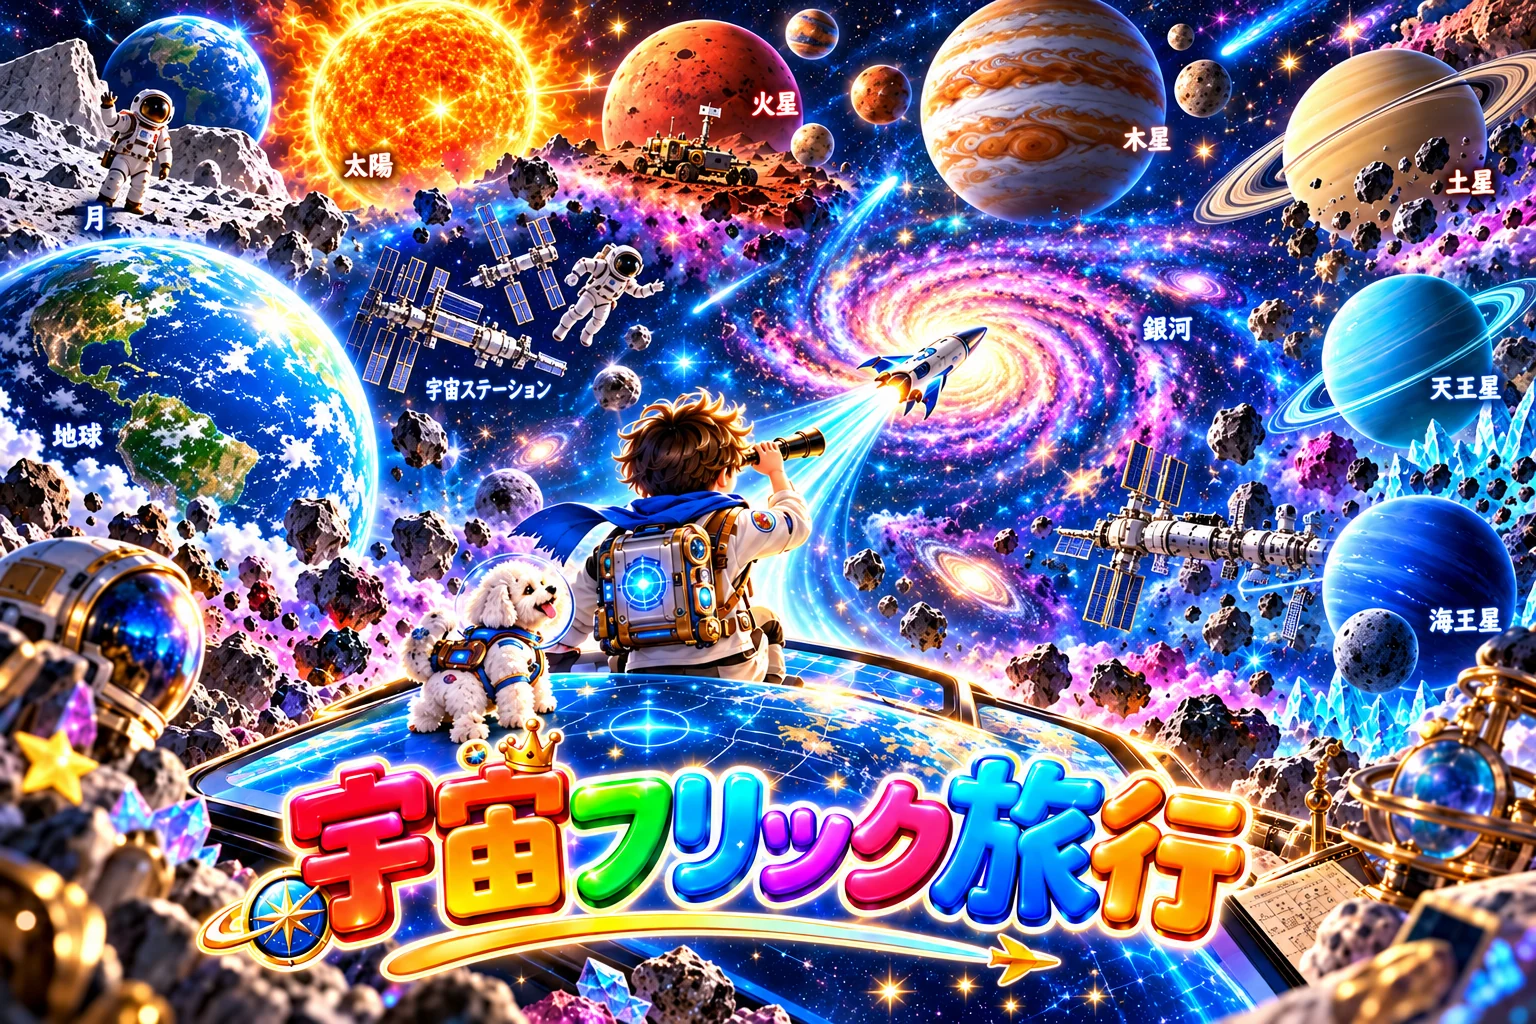
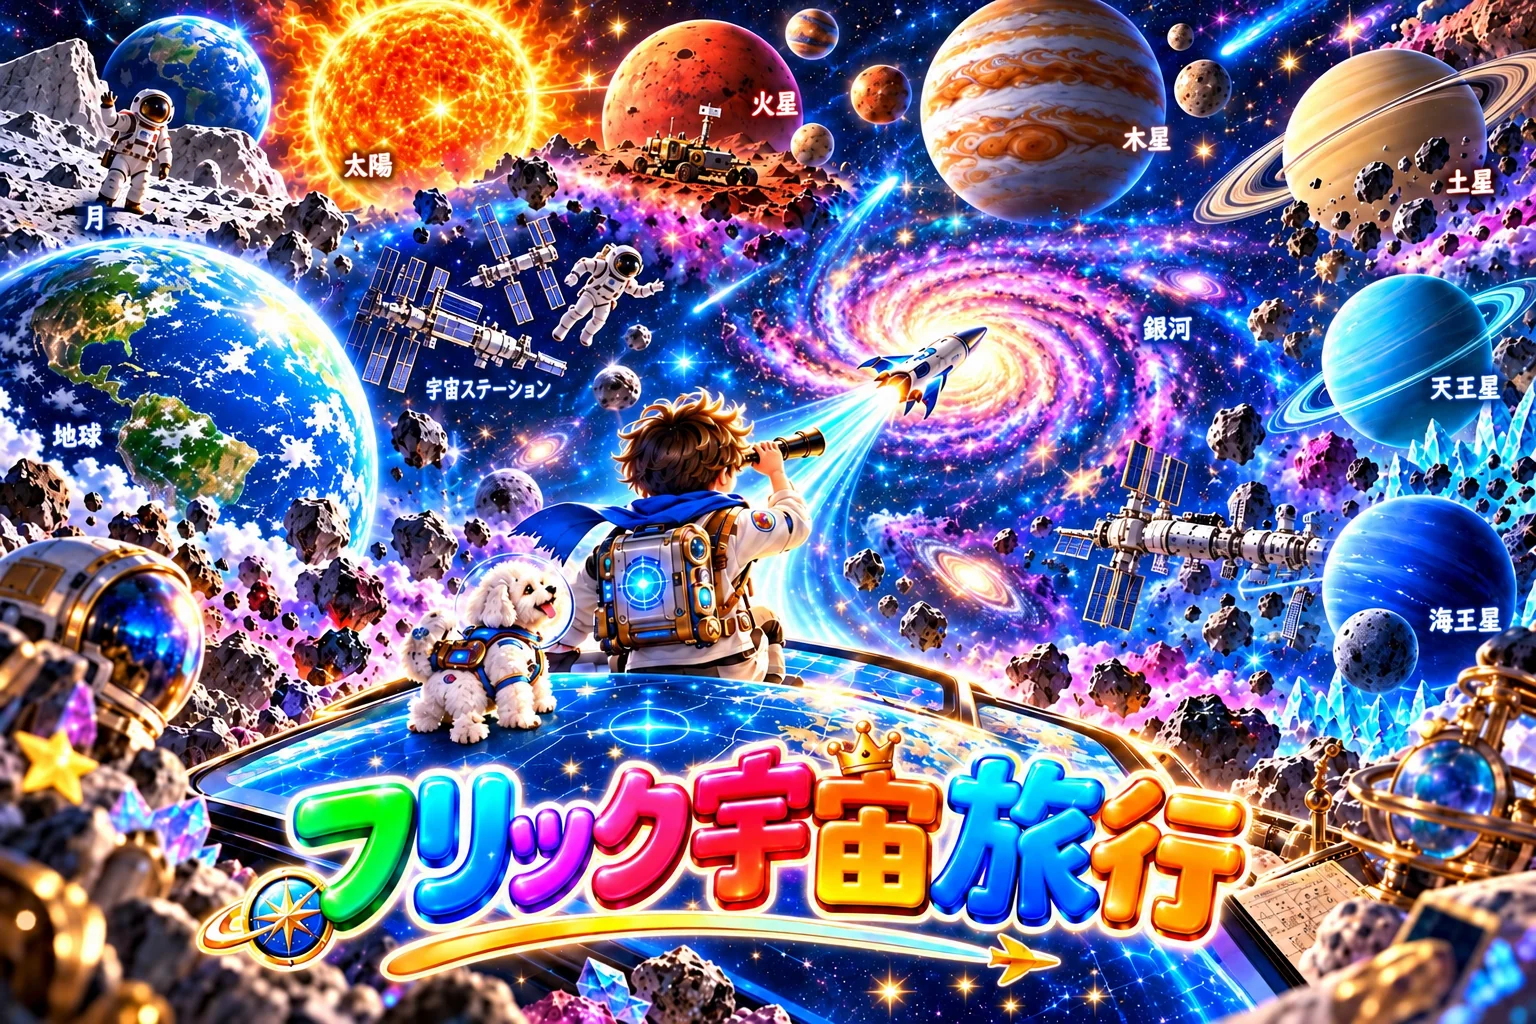
フリック宇宙旅行の トップの 絵と 題名を 入れた
Claude-Session: https://claude.ai/code/session_011SmHRfS48asPXBze6LzYiU

diff --git a/uchu/index.html b/uchu/index.html
@@ -404,11 +404,11 @@ ruby.nm rt{font-size:10px;font-weight:500;color:var(--muted);letter-spacing:.02e
          読みあげソフトには かくして、下の <h1> が 名前を言う -->
     <div class="logo">
       <img class="logo-mark" src="logo-mark2.webp?v=3" alt="" width="144" height="144" aria-hidden="true">
-      <img class="logo-word" src="logo-word.webp?v=2" alt="" width="1053" height="257" aria-hidden="true">
+      <img class="logo-word" src="logo-word.webp?v=3" alt="" width="959" height="193" aria-hidden="true">
       <button class="prof-btn" id="prof-btn" aria-label="あそぶ人を かえる"><span class="nm"></span><span class="tile sm sk-card" id="prof-tile">?</span></button>
     </div>
     <h1 class="sr-only">フリック宇宙旅行</h1>
-    <img class="hero" src="hero.webp" alt="フリック宇宙旅行。太陽系の 惑星と 銀河が うかぶ 絵" width="1536" height="1024">
+    <img class="hero" src="hero.webp?v=3" alt="フリック宇宙旅行。惑星・銀河・宇宙ステーションの 中を 男の子と 犬が 望遠鏡で 見る 絵" width="1536" height="1024">
     <p class="lead" id="lead">世界と日本の名所・地名・首都を、ひらがなでどれだけ速く打てるか。10問のトータルタイムで勝負しながら、旅に出よう。</p>
     <div class="modes" id="modes"></div>
     <div id="kabu-panel"></div><!-- 株式フリック旅行だけ: 集めた会社・称号(kabu/kabu.js) -->

diff --git a/tools/uchu/logo_cut.py b/tools/uchu/logo_cut.py
@@ -1,0 +1,33 @@
+#!/usr/bin/env python3
+"""フリック宇宙旅行: トップの 絵(けいくんの ChatGPT の 絵 2026-09-27)から 題名を 切りぬく → uchu/logo-word.webp
+    python3 tools/uchu/logo_cut.py もとの絵.png uchu/logo-word.webp 見本.png
+- 白い ふちが 「フ」の 左下で とぎれていて tools/logo-sticker-cut.py では「フ」が 落ちた。色で 拾う tools/logo-word-cut.py も 宇宙の 背景の 色が こくて だめ
+- GrabCut(tools/kabu/logo_cut.py と 同じ 方法)。色の こい ところを「たぶん 字」、暗い ところを「背景」に して はじめる。王冠・コンパス・矢印は 入れない
+⚠ GrabCut は 毎回 すこし 結果が ちがう。できた 絵は かならず 目で 見る。大きさを 変えたら build_games.py の uchu の art.word も なおす"""
+import numpy as np, cv2, sys
+from PIL import Image, ImageFilter
+from scipy import ndimage
+img=cv2.imread(sys.argv[1]); H0,W0=img.shape[:2]
+x0,y0,x1,y1=int(.14*W0),int(.705*H0),int(.83*W0),int(.915*H0)
+crop=img[y0:y1,x0:x1].copy(); h,w=crop.shape[:2]
+hsv=cv2.cvtColor(crop,cv2.COLOR_BGR2HSV); s=hsv[...,1]/255.; v=hsv[...,2]/255.
+mask=np.full((h,w),cv2.GC_PR_BGD,np.uint8)
+mask[(s>.55)&(v>.55)]=cv2.GC_PR_FGD
+mask[(v<.35)]=cv2.GC_BGD
+mask[:3,:]=mask[-3:,:]=cv2.GC_BGD; mask[:,:3]=mask[:,-3:]=cv2.GC_BGD
+bgd=np.zeros((1,65));fgd=np.zeros((1,65))
+cv2.grabCut(crop,mask,None,bgd,fgd,8,cv2.GC_INIT_WITH_MASK)
+fg=(mask==cv2.GC_FGD)|(mask==cv2.GC_PR_FGD)
+fg=ndimage.binary_opening(fg,np.ones((3,3)))
+lab,n=ndimage.label(fg); sz=ndimage.sum(fg,lab,range(1,n+1))
+for i,z in enumerate(sz):
+  if z>800:
+    sl=ndimage.find_objects((lab==i+1).astype(int))[0]; print(int(z),sl[1].start,sl[1].stop,sl[0].start,sl[0].stop)
+keep=np.isin(lab,[i+1 for i,z in enumerate(sz) if z>1500])
+holes=ndimage.binary_fill_holes(keep)&~keep; hl,hn=ndimage.label(holes); hs=ndimage.sum(holes,hl,range(1,hn+1))
+keep|=np.isin(hl,[i+1 for i,z in enumerate(hs) if z<400])
+out=Image.fromarray(cv2.cvtColor(crop,cv2.COLOR_BGR2RGB)).convert("RGBA")
+out.putalpha(Image.fromarray((keep*255).astype(np.uint8)).filter(ImageFilter.GaussianBlur(0.8)))
+ys,xs=np.nonzero(keep); out=out.crop((xs.min()-3,ys.min()-3,xs.max()+4,ys.max()+4))
+out.save(sys.argv[2],"WEBP",quality=95,method=6); print(out.size)
+bg=Image.new("RGB",out.size,(255,255,255)); bg.paste(out,(0,0),out); bg.save(sys.argv[3])

diff --git a/tools/build_games.py b/tools/build_games.py
@@ -14,7 +14,7 @@ GAMES = {
                     lead="世界と日本の偉人・歴史の出来事を、ひらがなでどれだけ速く打てるか。10問のトータルタイムで勝負しながら、時間の旅に出よう。",
                     how="表示されたひらがなを、そのまま打ち写してね。レベル1がいちばんかんたん。どのレベルも いつも同じ10問なので、タイムをくらべられるよ。偉人は 名前を打つと、結果で その人のプロフィールと 名言が読めるよ。出来事は 年と解説が出て、年表に📍が立つよ。",
                     rule="ルール：予測変換は使わずに、自分の指で打ち切ろう。速くなるほど、歴史の流れも自然と覚えられるよ。"),
-    "uchu": dict(name="フリック宇宙旅行", modes=["usolar", "usky", "ucos"], kinds={"space"}, color="#2b3a8f", hero=True, logo=True, art=dict(word=(1053, 257), hero=(1536, 1024), alt="フリック宇宙旅行。太陽系の 惑星と 銀河が うかぶ 絵", iconv=3),
+    "uchu": dict(name="フリック宇宙旅行", modes=["usolar", "usky", "ucos"], kinds={"space"}, color="#2b3a8f", hero=True, logo=True, art=dict(word=(959, 193), hero=(1536, 1024), alt="フリック宇宙旅行。惑星・銀河・宇宙ステーションの 中を 男の子と 犬が 望遠鏡で 見る 絵", iconv=3, wordv=3),
                  lead="太陽系・星と星座・宇宙のことばを、ひらがなでどれだけ速く打てるか。10問のトータルタイムで勝負しながら、宇宙の旅に出よう。",
                  how="表示されたひらがなを、そのまま打ち写してね。レベル1がいちばんかんたん。どのレベルも いつも同じ10問なので、タイムをくらべられるよ。打ち終わると 解説が出て、太陽系の図や 星図に📍が立つよ。",
                  rule="ルール：予測変換は使わずに、自分の指で打ち切ろう。速くなるほど、星や惑星の名前も自然と覚えられるよ。"),

diff --git a/CLAUDE.md b/CLAUDE.md
@@ -39,6 +39,6 @@
   絵が 届いたら 題名を 切り出して 読み、`build_games.py` の `GAMES`・`index.html` の `SERIES`・speed-king の `src/lib/games.ts` と `flick-url.ts` の `FLICK_SERIES_GAMES` を そろえる。**住所(フォルダ名)は 変えない**
 - 名前は `tools/build_games.py` の `GAMES` と `index.html`(世界)の `<title>`・`GAME`・`SERIES`。ホーム画面の 名前(manifest)は 名前 そのまま(「ゲーム」を 付けない)
 - 料金・申し込みの 案内は **https://kazutomo.app/games に 1つだけ**(`.about-link`)。`about.html` は そこへ 移すだけの ページ(けいくん決定「1」)。ここに 案内を 書きもどさない
-- 絵: 世界(2026-09-26)・歴史(2026-09-27。題名は `tools/rekishi/logo_cut.py`)は 入れた。宇宙は 正方形の 絵(アイコン)だけ 入れた(横長が 届いたら トップの 絵と 題名)。
+- 絵: 世界(2026-09-26)・歴史(2026-09-27。題名は `tools/rekishi/logo_cut.py`)は 入れた。宇宙(2026-09-27。題名は `tools/uchu/logo_cut.py` = GrabCut)も 入れた。
   差しかえたら `art` の `iconv`(アイコン)と `wordv`(題名・トップの 絵)を 上げる(古い 絵を おぼえている 端末のため)
 - ⚠ 「100マス計算」「百ます計算」の 字を 使わない
